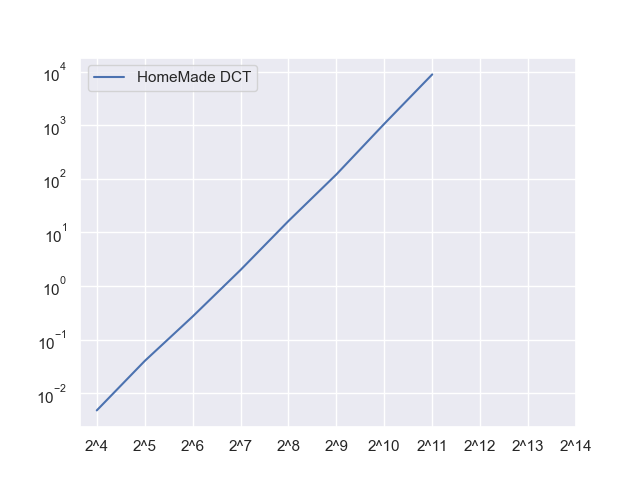
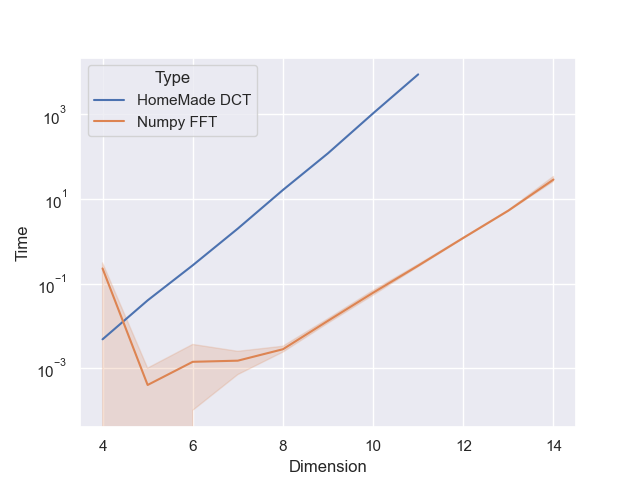
Plot dct2

diff --git a/dct-plot.py b/dct-plot.py
@@ -8,12 +8,8 @@ sns.set_theme(style="darkgrid")
 
 data = pd.read_pickle(os.path.join(".", "out-dct", "data-result.pkl"))
 
-'''
-g = sns.lineplot(data=result)
+g = sns.lmplot(data=data, x='Dimension', y='Time', hue='Type')
 g.set(yscale='log')
-values = ['2^4', '2^5', '2^6', '2^7', '2^8', '2^9', '2^10', '2^11', '2^12', '2^13', '2^14']
-plt.xticks([0, 1, 2, 3, 4, 5, 6, 7, 8, 9, 10], values)
 plt.show()
 fig = g.get_figure()
 fig.savefig("./images/plotdct2.png")
-'''
